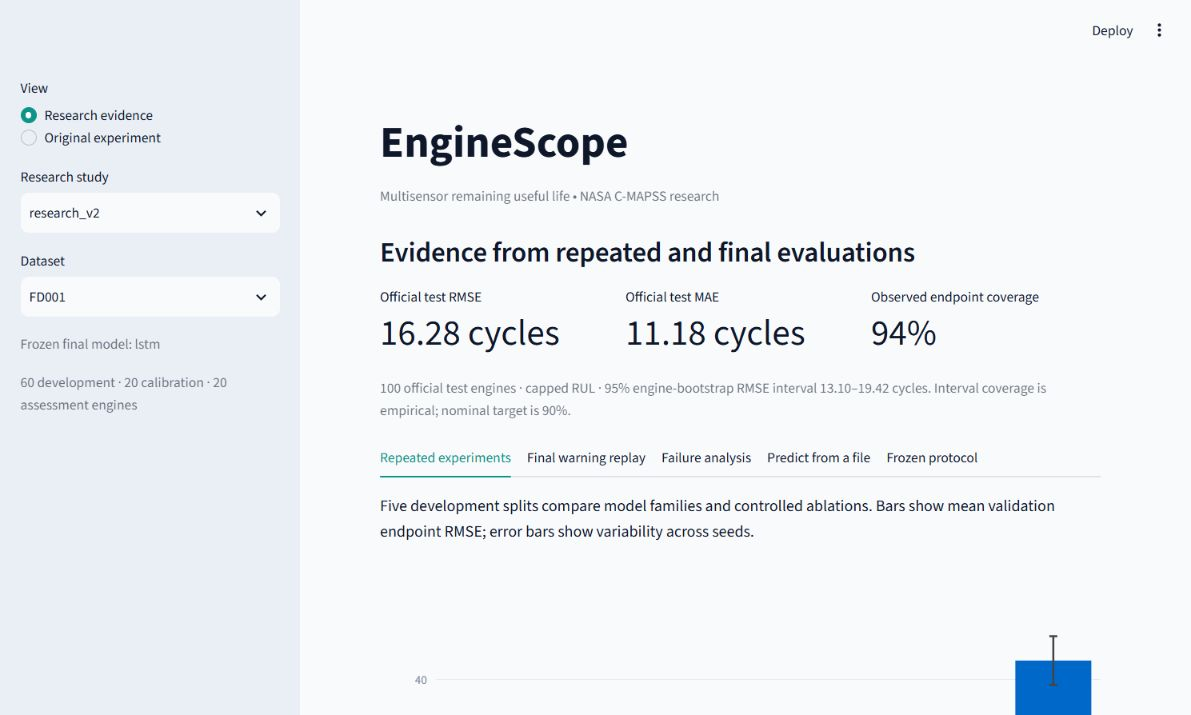
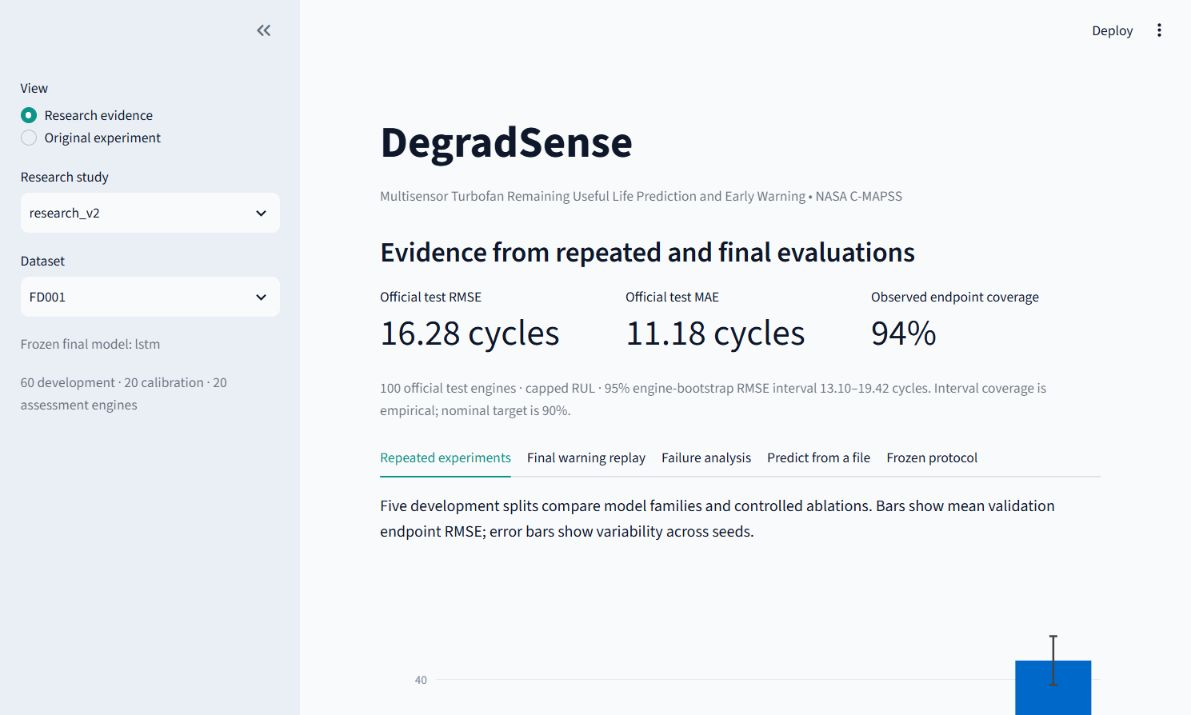
Rename project to DegradSense

Changed region(s): [[0.3107, 0.1846, 0.7456, 0.3077]]

diff --git a/app.py b/app.py
@@ -11,9 +11,9 @@ from rul.data import ROOT, load_trajectories
 from rul.experiment import load_run
 from rul.research_dashboard import render_research
 
-st.set_page_config(page_title="EngineScope | Sensor Fusion", page_icon="⚙", layout="wide")
-st.title("EngineScope")
-st.caption("Multisensor remaining useful life • NASA C-MAPSS research")
+st.set_page_config(page_title="DegradSense | Turbofan Prognostics", page_icon="⚙", layout="wide")
+st.title("DegradSense")
+st.caption("Multisensor Turbofan Remaining Useful Life Prediction and Early Warning • NASA C-MAPSS")
 completed_research = any(
     (p / "protocol.json").exists() and (p / "complete.json").exists()
     for p in (ROOT / "artifacts").iterdir()

diff --git a/README.md b/README.md
@@ -1,4 +1,6 @@
-# EngineScope sensor fusion for remaining useful life
+# DegradSense
+
+Multisensor Turbofan Remaining Useful Life Prediction and Early Warning
 
 This project studies whether combining sensor histories improves remaining useful life (RUL) estimates for simulated turbofan engines. It compares classical regressors with LSTM and GRU models, investigates individual sensors and sensor removal, and replays held-out engine lifetimes in an interactive dashboard.
 
@@ -39,7 +41,7 @@ GitHub Actions configuration runs lint and tests on Windows with the locked Pyth
 
 The repository includes the [experiment evidence](docs/evidence/) and a dashboard preview from the completed local study. Evidence contains saved metrics, engine predictions, cohort definitions, calibration settings, and source hashes. Downloaded NASA data, trained checkpoints, and the Python environment are excluded from Git. The evidence folder is for reviewing results; running inference requires regenerating the trained study artifacts using the commands above.
 
-![EngineScope research dashboard](docs/images/dashboard.jpg)
+![DegradSense research dashboard](docs/images/dashboard.jpg)
 
 On a fresh clone, create the Python 3.12 environment and install the locked dependencies as described below, download the dataset, and run the research study before launching the dashboard. This reproduces the full model artifacts locally; training time depends on hardware.
 

diff --git a/docs/MODEL_CARD.md b/docs/MODEL_CARD.md
@@ -1,8 +1,8 @@
-# EngineScope model card
+# DegradSense model card
 
 ## Purpose and intended use
 
-EngineScope is an educational research implementation of remaining useful life estimation from simulated turbofan sensor histories. Use it to reproduce controlled predictive-maintenance experiments and inspect model behavior. Its final model for FD001 is an LSTM; its final model for FD003 is XGBoost. The datasets are modeled independently.
+DegradSense is an educational research implementation of remaining useful life estimation from simulated turbofan sensor histories. Use it to reproduce controlled predictive-maintenance experiments and inspect model behavior. Its final model for FD001 is an LSTM; its final model for FD003 is XGBoost. The datasets are modeled independently.
 
 The trained models support the selected dataset's sensor definitions, ordering, and units. They are not validated for real equipment or new operating regimes. FD002 and FD004 require further operating-condition handling and are not supported by this research inference interface.
 

diff --git a/docs/RESULTS.md b/docs/RESULTS.md
@@ -1,4 +1,4 @@
-# EngineScope research results
+# DegradSense research results
 
 Version two evaluates sensor fusion and historical context using a prespecified study on NASA C-MAPSS FD001 and FD003. It completed 70 development model fits across five engine splits and then refitted one frozen, validation-selected model per dataset. The model and calibration choices were fixed before final assessment and official test evaluation. Results are in operating cycles.
 

diff --git a/docs/INTERVIEW_GUIDE.md b/docs/INTERVIEW_GUIDE.md
@@ -1,4 +1,4 @@
-# Explaining EngineScope in an interview
+# Explaining DegradSense in an interview
 
 Describe the project as a controlled study of sensor fusion and temporal context for remaining useful life estimation. Lead with the question, experimental controls, and measured results. Do not claim that LSTM always beats classical models or that the dataset represents real flight telemetry.
 
